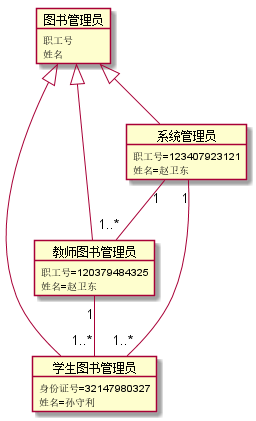
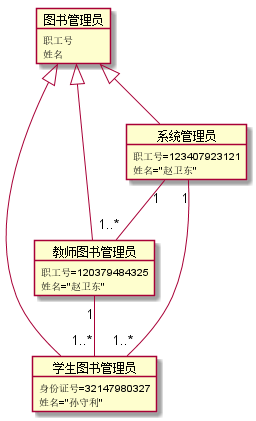
作业项目

Changed region(s): [[0.25, 0.6485, 0.4062, 0.7102], [0.25, 0.9264, 0.4062, 0.9881], [0.625, 0.3705, 0.75, 0.4323]]

diff --git a/test3/README.md b/test3/README.md
@@ -101,7 +101,7 @@
 #### 源码如下：
     @startuml
     object 读者 {
-        姓名=谢超
+        姓名="谢超"
         身份证号=12345678901234
         借书卡号=201510414320
         借书限额=5
@@ -114,19 +114,19 @@
     }
     object 图书{
         馆藏流水号=20111111
-        状态=借出
+        状态="借出"
     }
     object 图书品种{
-        书名=信息系统分析与设计
-        作者=王晓敏 邝孔武
-        出版社=清华大学出版社
+        书名="信息系统分析与设计"
+        作者="王晓敏 邝孔武"
+        出版社="清华大学出版社"
         出版日期=1998-06
-        国际出版号=978-7-302-32982-4
+        国际出版号="978-7-302-32982-4"
         价格=45
     }
     object 图书管理员{
         职工号=21584769
-        姓名=孙守利
+        姓名="孙守利"
     }
     读者 -- 借书记录
     图书品种 -- 图书
@@ -134,7 +134,7 @@
     图书管理员 -- 借书记录
     @enduml
 #### 对象图如下：
-[![](./class1.png)](./class1.puml)
+[![](./object1.png)](./object1.puml)
 
 ### 2.2读者关系对象图
 #### 源码如下：
@@ -149,7 +149,7 @@
         已借碟片数
     }
     object 学生读者{
-        姓名=谢超
+        姓名="谢超"
         身份证号=221388129673482164
         借书卡号=201510414320
         图书限额=7
@@ -158,7 +158,7 @@
         已借碟片数=1
     }
     object 教师读者{
-        姓名=赵卫东
+        姓名="赵卫东"
         身份证号=13249832754
         借书卡号=12
         图书限额=7
@@ -182,7 +182,7 @@
     }
     object 学生图书管理员{
         身份证号=32147980327
-        姓名=孙守利
+        姓名="孙守利"
     }
     object 教师图书管理员{
         职工号=120379484325
@@ -190,7 +190,7 @@
     }
     object 系统管理员{
         职工号=123407923121
-        姓名=赵卫东
+        姓名="赵卫东"
     }
     图书管理员 <|-- 学生图书管理员
     图书管理员 <|-- 教师图书管理员
